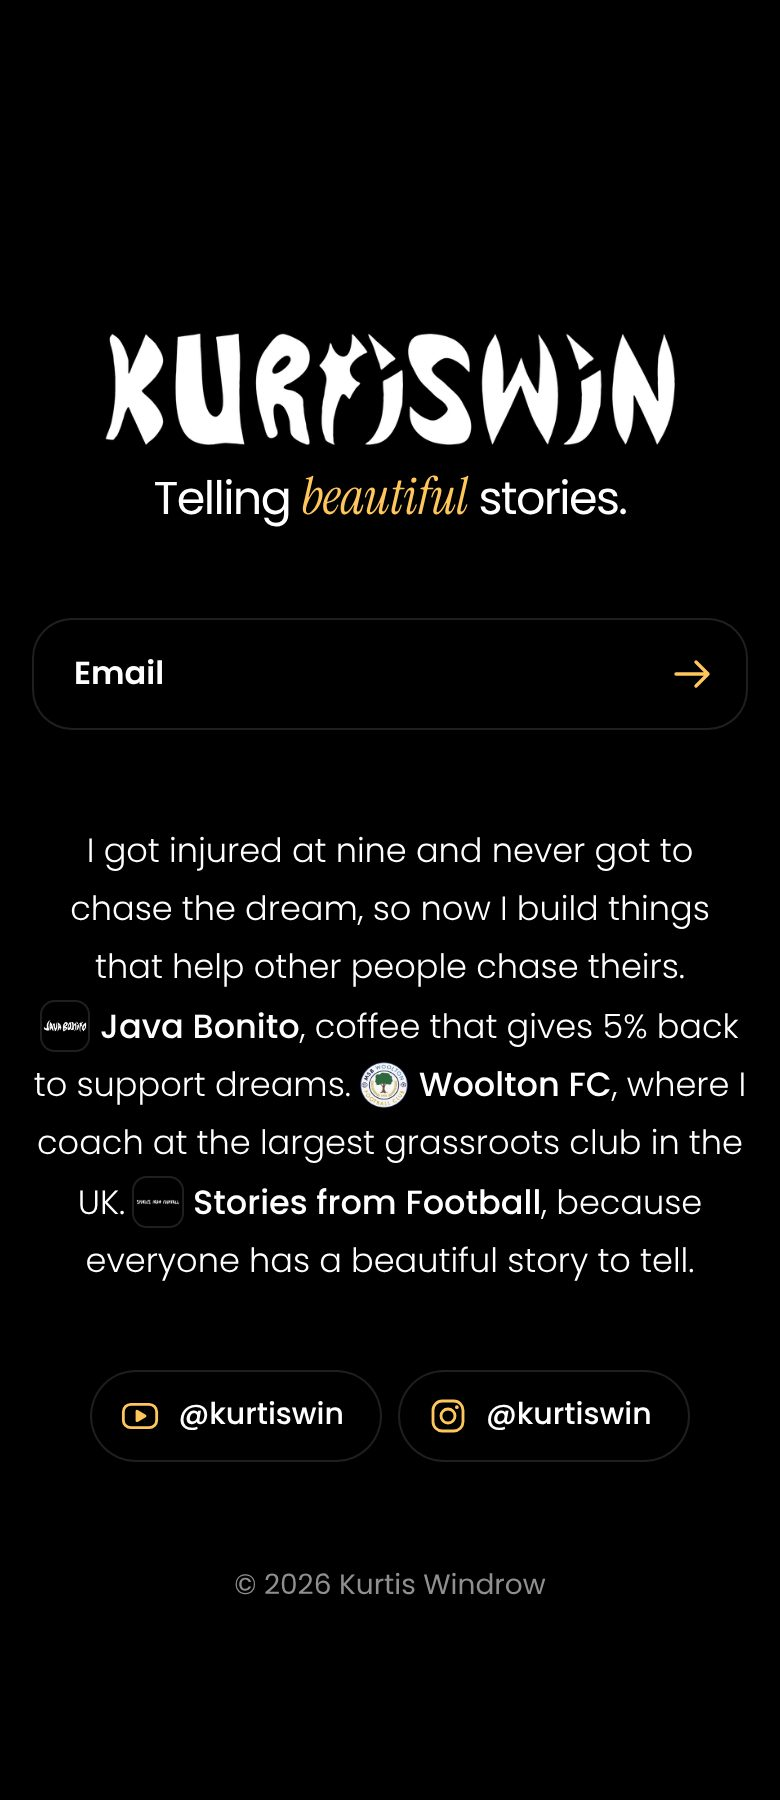
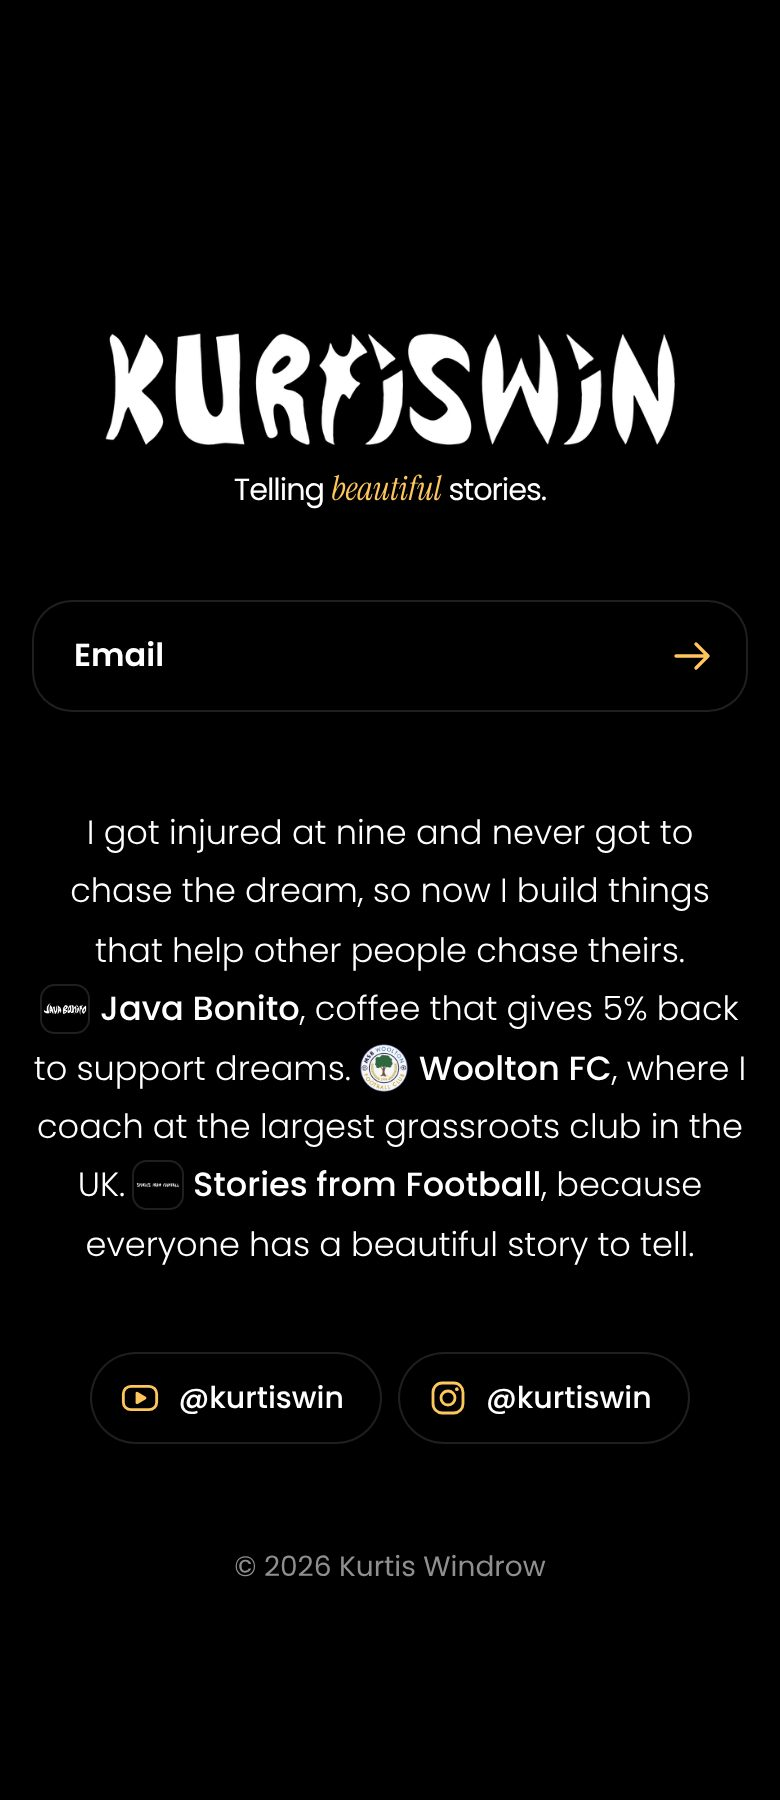
Match tagline to the KurtisWin link page
Claude-Session: https://claude.ai/code/session_01YWeD3rSu7rVPaxhd9cXvfE

diff --git a/kurtis-site/design-board/site.html b/kurtis-site/design-board/site.html
@@ -28,7 +28,8 @@ a{color:inherit}
 :focus-visible{outline:3px solid var(--gold);outline-offset:3px;border-radius:8px}
 .wrap{max-width:620px;margin:0 auto;padding-block:clamp(110px,18vh,190px) 48px;display:flex;flex-direction:column;align-items:center;text-align:center}
 
-h1{font-size:23px;font-weight:400;letter-spacing:-.035em;line-height:1.1;margin:10px 0 0;text-wrap:balance}
+h1{font-size:min(.95rem,3.9vw);white-space:nowrap;font-weight:400;letter-spacing:-.035em;line-height:1.1;margin:10px 0 0}
+@media(min-width:1000px){h1{font-size:clamp(.95rem,1.5vw,1.15rem)}}
 h1 em{font-family:var(--serif);font-weight:400;font-style:italic;letter-spacing:-.01em;color:var(--gold);font-size:1.12em;line-height:.9}
 .wordmark{display:block;width:min(300px,82%);height:auto;margin:0}
 

diff --git a/kurtis-site/vercel/kurtiswin-site/index.html b/kurtis-site/vercel/kurtiswin-site/index.html
@@ -39,7 +39,8 @@ a{color:inherit}
 :focus-visible{outline:3px solid var(--gold);outline-offset:3px;border-radius:8px}
 .wrap{max-width:620px;margin:0 auto;padding-block:clamp(110px,18vh,190px) 48px;display:flex;flex-direction:column;align-items:center;text-align:center}
 
-h1{font-size:23px;font-weight:400;letter-spacing:-.035em;line-height:1.1;margin:10px 0 0;text-wrap:balance}
+h1{font-size:min(.95rem,3.9vw);white-space:nowrap;font-weight:400;letter-spacing:-.035em;line-height:1.1;margin:10px 0 0}
+@media(min-width:1000px){h1{font-size:clamp(.95rem,1.5vw,1.15rem)}}
 h1 em{font-family:var(--serif);font-weight:400;font-style:italic;letter-spacing:-.01em;color:var(--gold);font-size:1.12em;line-height:.9}
 .wordmark{display:block;width:min(300px,82%);height:auto;margin:0}
 

diff --git a/skills/kurtis-design-skill-personal-brand/assets/reference/site.html b/skills/kurtis-design-skill-personal-brand/assets/reference/site.html
@@ -28,7 +28,8 @@ a{color:inherit}
 :focus-visible{outline:3px solid var(--gold);outline-offset:3px;border-radius:8px}
 .wrap{max-width:620px;margin:0 auto;padding-block:clamp(110px,18vh,190px) 48px;display:flex;flex-direction:column;align-items:center;text-align:center}
 
-h1{font-size:23px;font-weight:400;letter-spacing:-.035em;line-height:1.1;margin:10px 0 0;text-wrap:balance}
+h1{font-size:min(.95rem,3.9vw);white-space:nowrap;font-weight:400;letter-spacing:-.035em;line-height:1.1;margin:10px 0 0}
+@media(min-width:1000px){h1{font-size:clamp(.95rem,1.5vw,1.15rem)}}
 h1 em{font-family:var(--serif);font-weight:400;font-style:italic;letter-spacing:-.01em;color:var(--gold);font-size:1.12em;line-height:.9}
 .wordmark{display:block;width:min(300px,82%);height:auto;margin:0}
 

diff --git a/kurtis-site/BRIEF.md b/kurtis-site/BRIEF.md
@@ -75,3 +75,5 @@
 
 - 2026-11-26: Story paragraph centred again (left-aligned rejected).
 
+- 2026-11-26: 'Telling beautiful stories.' under the logo now matches the KurtisWin Link Page: one line, min(.95rem,3.9vw), up to clamp(.95rem,1.5vw,1.15rem) on large screens.
+
